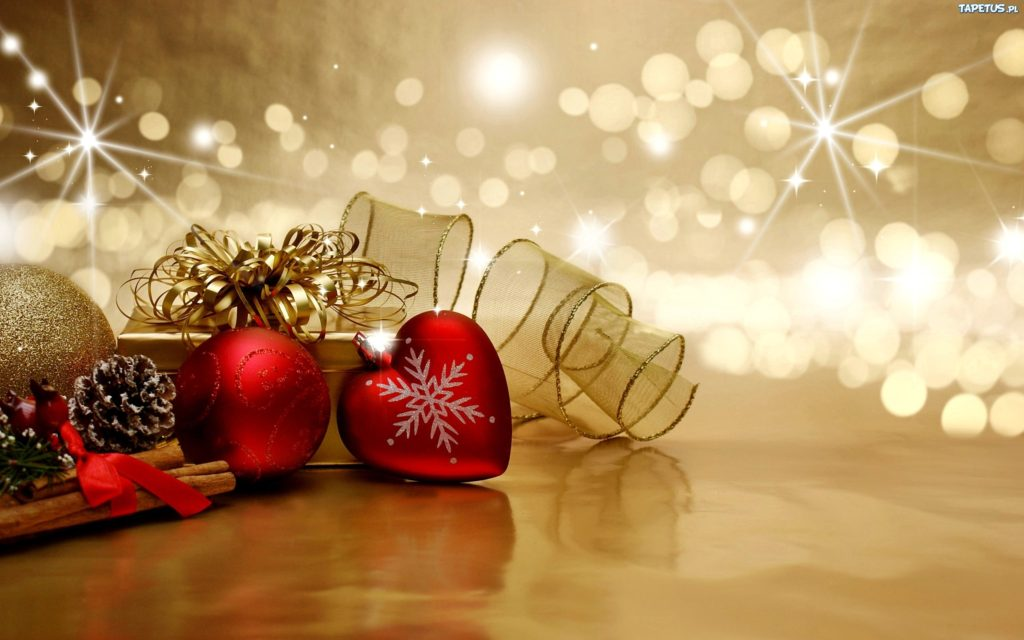
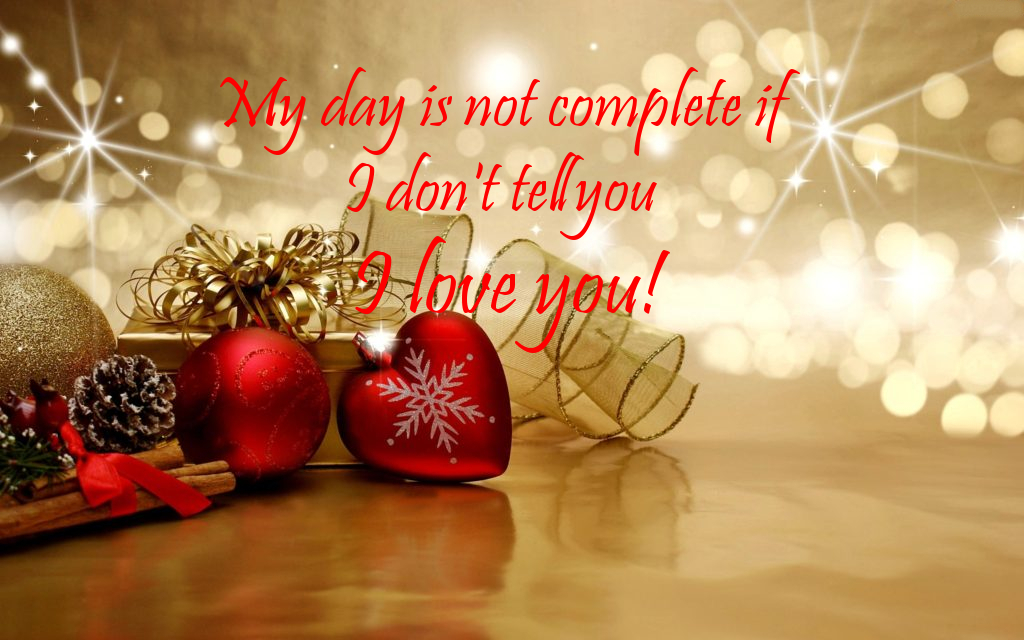
11.paiva
11paiva

diff --git a/slides.js b/slides.js
@@ -1,6 +1,6 @@
 var jsonData = null;
 if (localStorage.currentSlide) {
-    localStorage.currentSlide = Number(localStorage.currentSlide);;
+    localStorage.currentSlide = Number(localStorage.currentSlide);
 } else {
     localStorage.currentSlide = 0;
 }
@@ -15,9 +15,9 @@ window.onload = function(){
         $("#slideImg").attr("src",jsonData.pics[3].url);
         $("#slideshow").slideUp(1000, function(){
 
-            $('#slideHeader').html(data.pics[Number(localStorage.currentSlide)].title);
+
             $("#slideImg").attr("src",jsonData.pics[localStorage.currentSlide].url);
-            document.getElementById("slideshow").style.height = "700px";
+            document.getElementById("slideshow").style.height = "80vh";
             $("#slideshow").slideDown(1000);
     });
     });
@@ -25,7 +25,7 @@ window.onload = function(){
 
 var play = window.setInterval(function(){
     nextSlide();
-},5000);
+},10000);
 
 
 
@@ -33,7 +33,7 @@ function nextSlide(){
 
     $("#slideshow").slideUp(1000, function(){
         localStorage.currentSlide = (Number(localStorage.currentSlide) + 1) % 4;
-        $('#slideHeader').html(jsonData.pics[localStorage.currentSlide].title);
+
         $("#slideImg").attr("src",jsonData.pics[localStorage.currentSlide].url);
         $("#slideshow").slideDown(1000);
     });
@@ -46,7 +46,6 @@ function previousSlide(){
       localStorage.currentSlide = localStorage.currentSlide - 1 ;
     }
     $("#slideshow").slideUp(1000, function(){
-        $('#slideHeader').html(jsonData.pics[localStorage.currentSlide].title);
         $("#slideImg").attr("src",jsonData.pics[localStorage.currentSlide].url);
         $("slideshow").slideDown("slow", function(){});
         $("#slideshow").slideDown(1000);
@@ -60,7 +59,7 @@ function togglePlay(){
   } else {
       play = window.setInterval(function(){
           nextSlide();
-      },5000);
+      },10000);
       document.getElementById("playButton").innerHTML = "Pysäytä";
   }
 }

diff --git a/day11.html b/day11.html
@@ -1,0 +1,34 @@
+<!doctype html>
+<html>
+    <head>
+    <meta charset="utf-8"/>
+    <meta name="author" content="Valtteri Lipsanen" />
+    <meta name="description" content="Joulukalenteri" />
+    <meta name="viewport" content="width=device-width, initial-scale=1.0">
+    <link rel="shortcut icon" href="assets/favicon.ico"/>
+    <title> Joulukalenteri!</title>
+    <link rel="stylesheet" type="text/css" href="christmas.css">
+    <script src="https://cdnjs.cloudflare.com/ajax/libs/jquery/3.1.1/jquery.js" type="text/javascript"></script>
+    <script src="slides.js" type="text/javascript"></script>
+
+
+    </head>
+    <body class="body">
+        <div class="slides">
+          <img id="title" src="assets/christmas/11.jpg" />
+          <div class="buttons">
+          <button id="previousButton" class="button" type="button" onclick="previousSlide()">Edellinen</button>
+          <button id="NextButton" class="button" type="button" onclick="nextSlide()">Seuraava</button>
+          <button id="playButton" class="button" type="button" onclick="togglePlay()">Pysäytä</button>
+        </div>
+          <div id="slideshow">
+
+
+            <div class="slide"><img id="slideImg" src="assets/christmas/christmasLove.jpg"/></div>
+          </div>
+        </div>
+        <footer class="footer">
+        <p>© Valtteri Lipsanen 2017</p>
+        </footer>
+    </body>
+</html>

diff --git a/christmas.css b/christmas.css
@@ -2,17 +2,42 @@
 
 #slideImg{
   width: 100%;
+  max-width: 1000px;
   height: auto;
   margin: 0px;
   border: 5px;
   border-color: DarkGreen;
   padding: 0px;
+  border: 3px solid DarkGreen;
+  max-height: 700px;
+
+}
+
+.buttons{
+  margin: auto;
+  margin-left: 20%;
+  margin-right: 20%;
+  width: 100%;
+  display: inline-block;
+}
+.button {
+    background-color: DarkGreen;
+    border: 3px solid green;
+    color: white;
+    padding: 5px;
+    text-align: center;
+    text-decoration: none;
+    display: inline-block;
+    font-size: 12px;
+    margin: 4px 2px;
+    cursor: pointer;
 }
 
 .body {
+  margin: auto;
   position: relative;
   min-height: 100vh;
-  margin: 0px;
+  width: 100%;
   padding: auto;
   background-color: DarkRed;
   background-image: url("assets/christmas/back.jpg");
@@ -20,6 +45,8 @@
 
 .footer {
   position: absolute;
+  margin: inherit;
+  width: 100%;
   right: 0;
   bottom: 0;
   left: 0;
@@ -31,13 +58,20 @@
 .slides {
   margin: auto;
   width: 90%;
-  border: 3px;
-  border-color: DarkGreen;
   padding: 10px;
 }
 
-#title{
+#title {
   width: 100%;
-  border: 3px;
-  border-color: DarkGreen;
+  border: 3px solid DarkGreen;
+  max-width: 1000px;
+}
+#slideHeader{
+  text-decoration-color: green;
+  text-align: center;
+  margin: auto;
+  width: 100%;
+}
+#slideshow{
+  text-decoration-color: green;
 }
